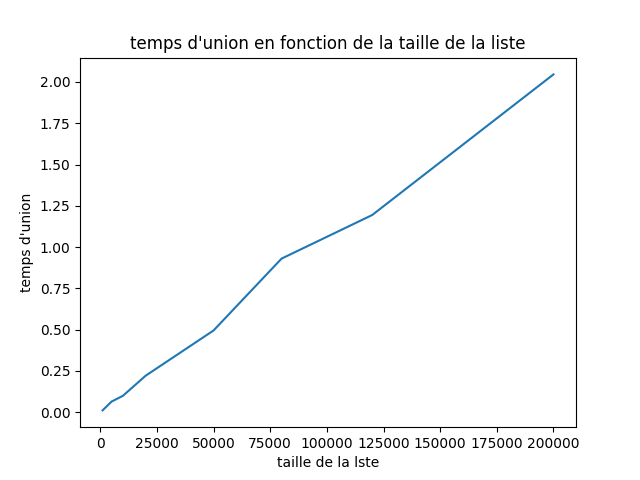
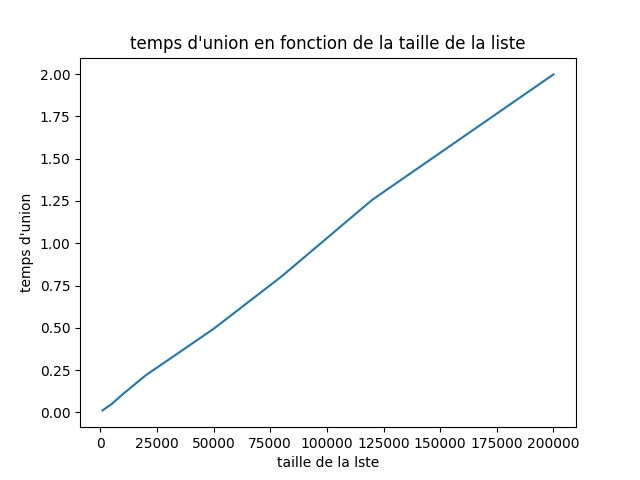
modif du test de l'union tas min

diff --git a/algos.py b/algos.py
@@ -547,30 +547,32 @@ list_of_sizes = [1000, 5000 ,10000, 20000, 50000, 80000, 120000 ,200000]
 # plt.savefig("experiments/temps_d_ajout_tree.png")
 
 
-# def moyenne_temps_union_table(list_of_sizes):
-#     list_of_times = []
-#     for size in list_of_sizes:
-#         list_of_times_for_size = []
-#         for i in range(1,5 , 2):
-#             list_of_values1 = st.treat_from_file("cles_alea/jeu_"+str(i)+"_nb_cles_"+str(size)+".txt")
-#             list_of_values2 = st.treat_from_file("cles_alea/jeu_"+str(i+1)+"_nb_cles_"+str(size)+".txt")
-#             heap1 = build_heap_table(list_of_values1)
-#             heap2 = build_heap_table(list_of_values2)
-#             start_time = time.time()
-#             Union(heap1, heap2)
-#             end_time = time.time()
-#             list_of_times_for_size.append(end_time - start_time)
-#         list_of_times.append(np.mean(list_of_times_for_size))
-#     return list_of_times
+# le test d'union fait les tests suivant :
+# pour une taille de liste donnée,exemple 1000, fait jeu1 union jeu2, jeu2 union jeu3, jeu3 union jeu4 et jeu4 union jeu5
+def moyenne_temps_union_table(list_of_sizes):
+    list_of_times = []
+    for size in list_of_sizes:
+        list_of_times_for_size = []
+        for i in range(1,5 , 1):
+            list_of_values1 = st.treat_from_file("cles_alea/jeu_"+str(i)+"_nb_cles_"+str(size)+".txt")
+            list_of_values2 = st.treat_from_file("cles_alea/jeu_"+str(i+1)+"_nb_cles_"+str(size)+".txt")
+            heap1 = build_heap_table(list_of_values1)
+            heap2 = build_heap_table(list_of_values2)
+            start_time = time.time()
+            Union(heap1, heap2)
+            end_time = time.time()
+            list_of_times_for_size.append(end_time - start_time)
+        list_of_times.append(np.mean(list_of_times_for_size))
+    return list_of_times
 
-# list_of_times = moyenne_temps_union_table(list_of_sizes)
-# plt.clf()
-# plt.plot(list_of_sizes, list_of_times)
-# plt.xlabel("taille de la lste")
-# plt.ylabel("temps d'union")
-# plt.title("temps d'union en fonction de la taille de la liste")
-# # plt.show()
-# plt.savefig("experiments/temps_d_union_table.png")
+list_of_times = moyenne_temps_union_table(list_of_sizes)
+plt.clf()
+plt.plot(list_of_sizes, list_of_times)
+plt.xlabel("taille de la lste")
+plt.ylabel("temps d'union")
+plt.title("temps d'union en fonction de la taille de la liste")
+# plt.show()
+plt.savefig("experiments/temps_d_union_table.png")
 
 
 
